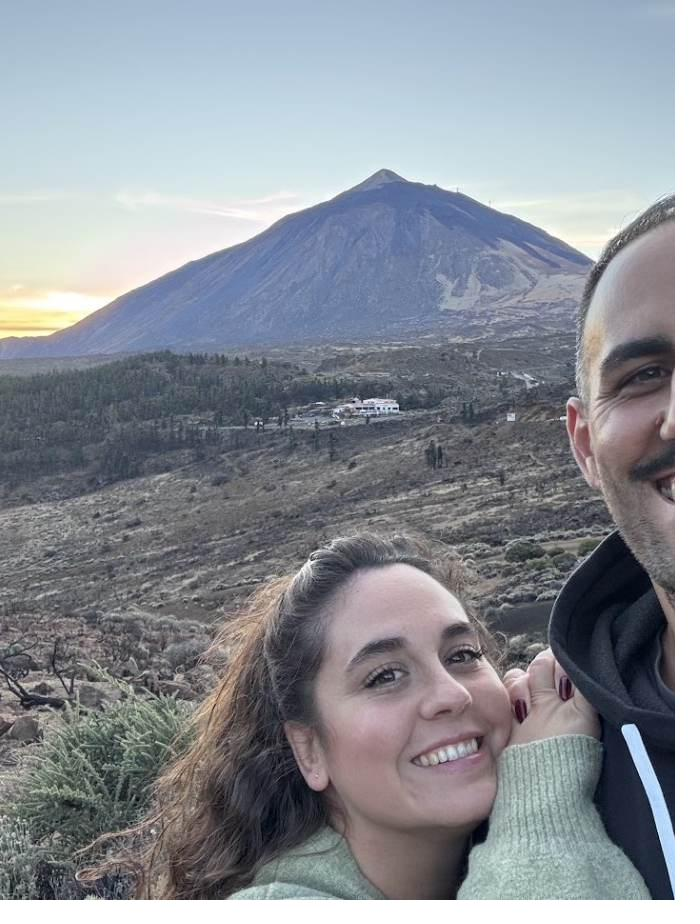
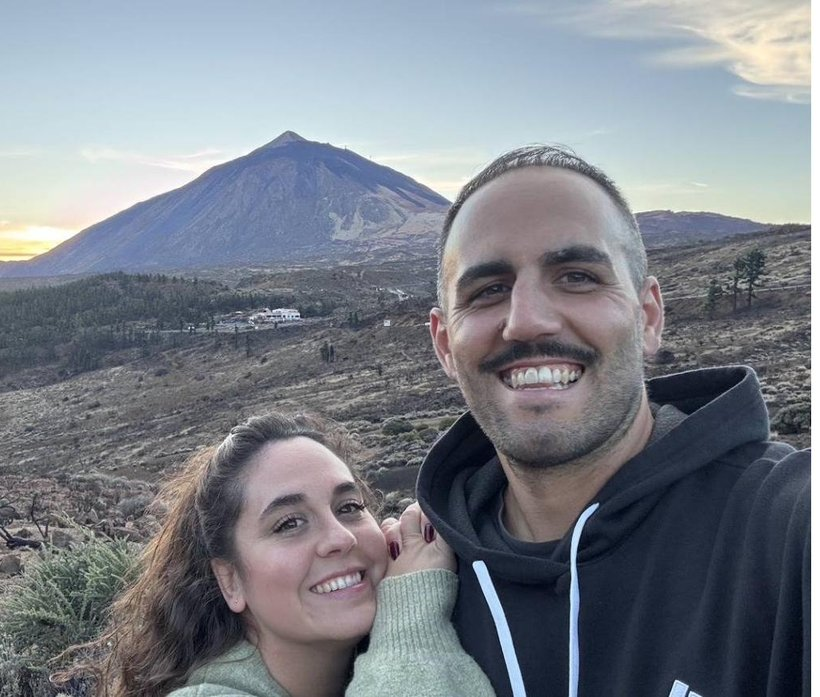
edit

diff --git a/assets/styles.css b/assets/styles.css
@@ -80,7 +80,6 @@ p:last-child{margin-bottom:0}
 @media (max-width:900px){
   .sp{grid-template-columns:1fr;gap:1.8rem}
   .sp__t{position:static}
-  .sp__t br{display:none}
 }
 
 .duo{display:grid;grid-template-columns:1fr 1fr;gap:clamp(2rem,6vw,5rem)}
@@ -106,7 +105,7 @@ p:last-child{margin-bottom:0}
 
 /* ─────────── Botones ─────────── */
 
-.btn{display:inline-block;font-family:var(--sans);font-size:.95rem;font-weight:500;padding:.72rem 1.5rem;border-radius:2px;text-decoration:none;border:1px solid transparent;cursor:pointer;transition:background-color .18s ease,color .18s ease,border-color .18s ease}
+.btn{display:inline-block;font-family:var(--sans);font-size:.95rem;font-weight:500;line-height:1.35;padding:.72rem 1.5rem;border-radius:2px;text-decoration:none;border:1px solid transparent;cursor:pointer;transition:background-color .18s ease,color .18s ease,border-color .18s ease}
 .btn--solid{background:var(--barro);color:#fff;border-color:var(--barro)}
 .btn--solid:hover{background:var(--barro-hondo);border-color:var(--barro-hondo);color:#fff}
 .btn--ghost{background:transparent;color:var(--tinta);border-color:rgba(46,58,47,.3)}
@@ -148,10 +147,20 @@ p:last-child{margin-bottom:0}
 }
 
 @media (max-width:820px){
-  .telon__capa{background-size:142% auto;background-repeat:no-repeat}
-  .telon__capa--a{background-position:38% 60%}
-  .telon__capa--b{background-position:56% 26%}
-  .telon__velo{background:linear-gradient(180deg, rgba(245,241,232,.93) 0%, rgba(245,241,232,.82) 38%, rgba(245,241,232,.5) 64%, rgba(245,241,232,.36) 100%)}
+  /* La foto entra entera por ancho y funde hacia el papel: nadie se recorta */
+  .telon__capa{
+    background-size:100% auto;
+    background-repeat:no-repeat;
+    background-position:center top;
+  }
+  .telon__capa--a{background-image:url("img/fondo-1-m.jpg")}
+  .telon__capa--b{background-image:url("img/fondo-2-m.jpg")}
+  .telon__velo{background:linear-gradient(180deg,
+    rgba(245,241,232,.44) 0%,
+    rgba(245,241,232,.28) 26%,
+    rgba(245,241,232,.60) 44%,
+    rgba(245,241,232,.97) 56%,
+    rgba(245,241,232,1) 68%)}
 }
 
 /* Todo lo que viene después del tramo con foto va sobre color liso */
@@ -273,7 +282,7 @@ p:last-child{margin-bottom:0}
 
 .gal{display:grid;grid-template-columns:repeat(3,1fr);gap:12px;margin-top:2.2rem}
 .gal__it{margin:0;overflow:hidden;background:var(--salvia);aspect-ratio:4/5}
-.gal__it img{width:100%;height:100%;object-fit:cover;filter:var(--tono);display:block}
+.gal__it img{width:100%;height:100%;object-fit:cover;filter:var(--tono);display:block;transform:scale(1.02)}
 @media (max-width:520px){.gal{grid-template-columns:1fr 1fr;gap:10px}}
 
 /* ─────────── Línea de tiempo ─────────── */
